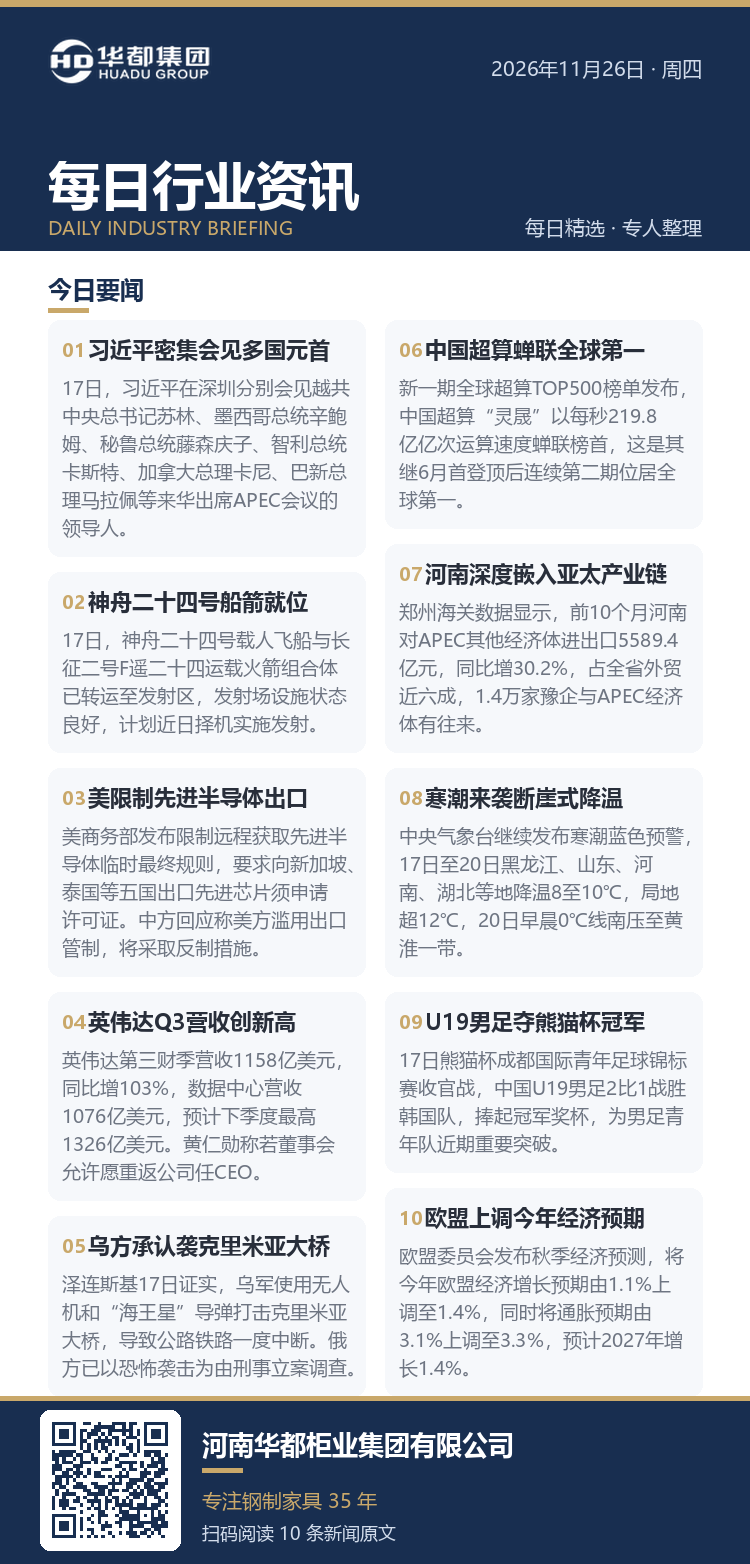
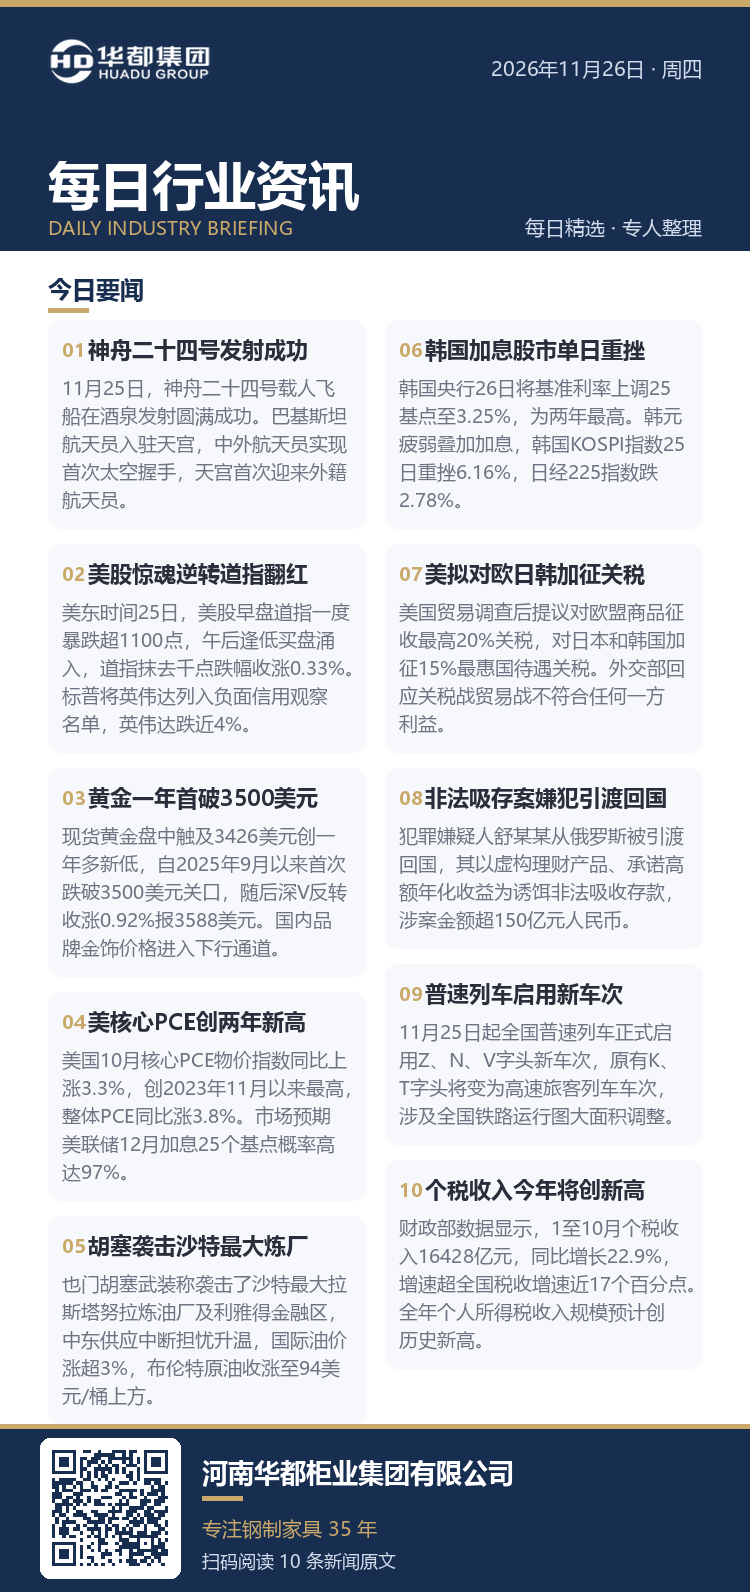
poster 2026-11-26

diff --git a/docs/2026-11-26.html b/docs/2026-11-26.html
@@ -40,7 +40,7 @@ body { font-family:-apple-system,'PingFang SC','Microsoft YaHei',sans-serif;
 <div class="tip">👇 今日海报（长按图片即可保存 / 转发同事群）</div>
 <img src="latest.png" alt="今日行业资讯海报">
 </div>
-<div class="list wrap"><div class="sect">今日要闻</div><div class="card"><span class="no">01</span><h2>习近平密集会见多国元首</h2><p>17日，习近平在深圳分别会见越共中央总书记苏林、墨西哥总统辛鲍姆、秘鲁总统藤森庆子、智利总统卡斯特、加拿大总理卡尼、巴新总理马拉佩等来华出席APEC会议的领导人。</p><div class="meta"><span class="src">北京日报</span><a href="https://pc.bjd.com.cn/detail?id=s6afce713e4b039a8e2f3c122" target="_blank" rel="noopener">阅读原文 →</a></div></div><div class="card"><span class="no">02</span><h2>神舟二十四号船箭就位</h2><p>17日，神舟二十四号载人飞船与长征二号F遥二十四运载火箭组合体已转运至发射区，发射场设施状态良好，计划近日择机实施发射。</p><div class="meta"><span class="src">北京日报</span><a href="https://pc.bjd.com.cn/detail?id=s6afce713e4b039a8e2f3c122" target="_blank" rel="noopener">阅读原文 →</a></div></div><div class="card"><span class="no">03</span><h2>美限制先进半导体出口</h2><p>美商务部发布限制远程获取先进半导体临时最终规则，要求向新加坡、泰国等五国出口先进芯片须申请许可证。中方回应称美方滥用出口管制，将采取反制措施。</p><div class="meta"><span class="src">央广网</span><a href="https://www.cnr.cn/jingji/ycbd/20261118/t20261118_527876265.shtml" target="_blank" rel="noopener">阅读原文 →</a></div></div><div class="card"><span class="no">04</span><h2>英伟达Q3营收创新高</h2><p>英伟达第三财季营收1158亿美元，同比增103%，数据中心营收1076亿美元，预计下季度最高1326亿美元。黄仁勋称若董事会允许愿重返公司任CEO。</p><div class="meta"><span class="src">东方财富网</span><a href="https://www.cnr.cn/jingji/ycbd/20261118/t20261118_527876265.shtml" target="_blank" rel="noopener">阅读原文 →</a></div></div><div class="card"><span class="no">05</span><h2>乌方承认袭克里米亚大桥</h2><p>泽连斯基17日证实，乌军使用无人机和“海王星”导弹打击克里米亚大桥，导致公路铁路一度中断。俄方已以恐怖袭击为由刑事立案调查。</p><div class="meta"><span class="src">每日经济新闻</span><a href="https://www.mrjjxw.com/articles/2026-11-18/4650861.html" target="_blank" rel="noopener">阅读原文 →</a></div></div><div class="card"><span class="no">06</span><h2>中国超算蝉联全球第一</h2><p>新一期全球超算TOP500榜单发布，中国超算“灵晟”以每秒219.8亿亿次运算速度蝉联榜首，这是其继6月首登顶后连续第二期位居全球第一。</p><div class="meta"><span class="src">北京日报</span><a href="https://pc.bjd.com.cn/detail?id=s6afce713e4b039a8e2f3c122" target="_blank" rel="noopener">阅读原文 →</a></div></div><div class="card"><span class="no">07</span><h2>河南深度嵌入亚太产业链</h2><p>郑州海关数据显示，前10个月河南对APEC其他经济体进出口5589.4亿元，同比增30.2%，占全省外贸近六成，1.4万家豫企与APEC经济体有往来。</p><div class="meta"><span class="src">河南日报</span><a href="https://dzb.henandaily.cn/html5/2026-11/18/content_10_1820147.htm" target="_blank" rel="noopener">阅读原文 →</a></div></div><div class="card"><span class="no">08</span><h2>寒潮来袭断崖式降温</h2><p>中央气象台继续发布寒潮蓝色预警，17日至20日黑龙江、山东、河南、湖北等地降温8至10℃，局地超12℃，20日早晨0℃线南压至黄淮一带。</p><div class="meta"><span class="src">贵州改革</span><a href="http://mp.weixin.qq.com/s?__biz=MzIzNDYxNTcxOA==&mid=2247827865&idx=1&sn=04991b62a19219b16ac79dc9bd45848c&chksm=e96c1fd5104734226dbe063b6353731511a03c3155cf39c3df1beae92b1fc0e781234582cd9f#rd" target="_blank" rel="noopener">阅读原文 →</a></div></div><div class="card"><span class="no">09</span><h2>U19男足夺熊猫杯冠军</h2><p>17日熊猫杯成都国际青年足球锦标赛收官战，中国U19男足2比1战胜韩国队，捧起冠军奖杯，为男足青年队近期重要突破。</p><div class="meta"><span class="src">贵州改革</span><a href="http://mp.weixin.qq.com/s?__biz=MzIzNDYxNTcxOA==&mid=2247827865&idx=1&sn=04991b62a19219b16ac79dc9bd45848c&chksm=e96c1fd5104734226dbe063b6353731511a03c3155cf39c3df1beae92b1fc0e781234582cd9f#rd" target="_blank" rel="noopener">阅读原文 →</a></div></div><div class="card"><span class="no">10</span><h2>欧盟上调今年经济预期</h2><p>欧盟委员会发布秋季经济预测，将今年欧盟经济增长预期由1.1%上调至1.4%，同时将通胀预期由3.1%上调至3.3%，预计2027年增长1.4%。</p><div class="meta"><span class="src">新华社</span><a href="https://www.mrjjxw.com/articles/2026-11-18/4650861.html" target="_blank" rel="noopener">阅读原文 →</a></div></div></div>
+<div class="list wrap"><div class="sect">今日要闻</div><div class="card"><span class="no">01</span><h2>神舟二十四号发射成功</h2><p>11月25日，神舟二十四号载人飞船在酒泉发射圆满成功。巴基斯坦航天员入驻天宫，中外航天员实现首次太空握手，天宫首次迎来外籍航天员。</p><div class="meta"><span class="src">新华网</span><a href="https://news.qq.com/rain/a/20261126A04BQY00" target="_blank" rel="noopener">阅读原文 →</a></div></div><div class="card"><span class="no">02</span><h2>美股惊魂逆转道指翻红</h2><p>美东时间25日，美股早盘道指一度暴跌超1100点，午后逢低买盘涌入，道指抹去千点跌幅收涨0.33%。标普将英伟达列入负面信用观察名单，英伟达跌近4%。</p><div class="meta"><span class="src">中华网</span><a href="https://news.china.com/socialgd/10000169/20261126/49908610.html" target="_blank" rel="noopener">阅读原文 →</a></div></div><div class="card"><span class="no">03</span><h2>黄金一年首破3500美元</h2><p>现货黄金盘中触及3426美元创一年多新低，自2025年9月以来首次跌破3500美元关口，随后深V反转收涨0.92%报3588美元。国内品牌金饰价格进入下行通道。</p><div class="meta"><span class="src">光明网</span><a href="https://m.gmw.cn/2026-11/26/content_1304589616.htm" target="_blank" rel="noopener">阅读原文 →</a></div></div><div class="card"><span class="no">04</span><h2>美核心PCE创两年新高</h2><p>美国10月核心PCE物价指数同比上涨3.3%，创2023年11月以来最高，整体PCE同比涨3.8%。市场预期美联储12月加息25个基点概率高达97%。</p><div class="meta"><span class="src">央广网</span><a href="https://www.cnr.cn/jingji/ycbd/20261126/t20261126_527883359.shtml" target="_blank" rel="noopener">阅读原文 →</a></div></div><div class="card"><span class="no">05</span><h2>胡塞袭击沙特最大炼厂</h2><p>也门胡塞武装称袭击了沙特最大拉斯塔努拉炼油厂及利雅得金融区，中东供应中断担忧升温，国际油价涨超3%，布伦特原油收涨至94美元/桶上方。</p><div class="meta"><span class="src">中金在线</span><a href="http://futures.cnfol.com/qishidongtai/20261126/32432630.shtml" target="_blank" rel="noopener">阅读原文 →</a></div></div><div class="card"><span class="no">06</span><h2>韩国加息股市单日重挫</h2><p>韩国央行26日将基准利率上调25基点至3.25%，为两年最高。韩元疲弱叠加加息，韩国KOSPI指数25日重挫6.16%，日经225指数跌2.78%。</p><div class="meta"><span class="src">新华财经</span><a href="https://m.cnfin.com/yw-lb//zixun/20261126/4500805_1.html" target="_blank" rel="noopener">阅读原文 →</a></div></div><div class="card"><span class="no">07</span><h2>美拟对欧日韩加征关税</h2><p>美国贸易调查后提议对欧盟商品征收最高20%关税，对日本和韩国加征15%最惠国待遇关税。外交部回应关税战贸易战不符合任何一方利益。</p><div class="meta"><span class="src">财联社</span><a href="https://www.cls.cn/detail/2544794" target="_blank" rel="noopener">阅读原文 →</a></div></div><div class="card"><span class="no">08</span><h2>非法吸存案嫌犯引渡回国</h2><p>犯罪嫌疑人舒某某从俄罗斯被引渡回国，其以虚构理财产品、承诺高额年化收益为诱饵非法吸收存款，涉案金额超150亿元人民币。</p><div class="meta"><span class="src">腾讯新闻</span><a href="https://news.qq.com/rain/a/20261126A04EUY00" target="_blank" rel="noopener">阅读原文 →</a></div></div><div class="card"><span class="no">09</span><h2>普速列车启用新车次</h2><p>11月25日起全国普速列车正式启用Z、N、V字头新车次，原有K、T字头将变为高速旅客列车车次，涉及全国铁路运行图大面积调整。</p><div class="meta"><span class="src">中国新闻网</span><a href="https://www.zj.chinanews.com/jzkzj/2026-11-26/detail-ihfnkmis1794094.shtml" target="_blank" rel="noopener">阅读原文 →</a></div></div><div class="card"><span class="no">10</span><h2>个税收入今年将创新高</h2><p>财政部数据显示，1至10月个税收入16428亿元，同比增长22.9%，增速超全国税收增速近17个百分点。全年个人所得税收入规模预计创历史新高。</p><div class="meta"><span class="src">央广网</span><a href="https://www.cnr.cn/jingji/ycbd/20261126/t20261126_527883359.shtml" target="_blank" rel="noopener">阅读原文 →</a></div></div></div>
 <div class="tip">点击「阅读原文」查看各家媒体报道全文</div>
 <div class="footer"><div class="co">河南华都柜业集团有限公司</div>
 <div class="slogan">专注钢制家具 35 年</div></div>

diff --git a/docs/index.html b/docs/index.html
@@ -40,7 +40,7 @@ body { font-family:-apple-system,'PingFang SC','Microsoft YaHei',sans-serif;
 <div class="tip">👇 今日海报（长按图片即可保存 / 转发同事群）</div>
 <img src="latest.png" alt="今日行业资讯海报">
 </div>
-<div class="list wrap"><div class="sect">今日要闻</div><div class="card"><span class="no">01</span><h2>习近平密集会见多国元首</h2><p>17日，习近平在深圳分别会见越共中央总书记苏林、墨西哥总统辛鲍姆、秘鲁总统藤森庆子、智利总统卡斯特、加拿大总理卡尼、巴新总理马拉佩等来华出席APEC会议的领导人。</p><div class="meta"><span class="src">北京日报</span><a href="https://pc.bjd.com.cn/detail?id=s6afce713e4b039a8e2f3c122" target="_blank" rel="noopener">阅读原文 →</a></div></div><div class="card"><span class="no">02</span><h2>神舟二十四号船箭就位</h2><p>17日，神舟二十四号载人飞船与长征二号F遥二十四运载火箭组合体已转运至发射区，发射场设施状态良好，计划近日择机实施发射。</p><div class="meta"><span class="src">北京日报</span><a href="https://pc.bjd.com.cn/detail?id=s6afce713e4b039a8e2f3c122" target="_blank" rel="noopener">阅读原文 →</a></div></div><div class="card"><span class="no">03</span><h2>美限制先进半导体出口</h2><p>美商务部发布限制远程获取先进半导体临时最终规则，要求向新加坡、泰国等五国出口先进芯片须申请许可证。中方回应称美方滥用出口管制，将采取反制措施。</p><div class="meta"><span class="src">央广网</span><a href="https://www.cnr.cn/jingji/ycbd/20261118/t20261118_527876265.shtml" target="_blank" rel="noopener">阅读原文 →</a></div></div><div class="card"><span class="no">04</span><h2>英伟达Q3营收创新高</h2><p>英伟达第三财季营收1158亿美元，同比增103%，数据中心营收1076亿美元，预计下季度最高1326亿美元。黄仁勋称若董事会允许愿重返公司任CEO。</p><div class="meta"><span class="src">东方财富网</span><a href="https://www.cnr.cn/jingji/ycbd/20261118/t20261118_527876265.shtml" target="_blank" rel="noopener">阅读原文 →</a></div></div><div class="card"><span class="no">05</span><h2>乌方承认袭克里米亚大桥</h2><p>泽连斯基17日证实，乌军使用无人机和“海王星”导弹打击克里米亚大桥，导致公路铁路一度中断。俄方已以恐怖袭击为由刑事立案调查。</p><div class="meta"><span class="src">每日经济新闻</span><a href="https://www.mrjjxw.com/articles/2026-11-18/4650861.html" target="_blank" rel="noopener">阅读原文 →</a></div></div><div class="card"><span class="no">06</span><h2>中国超算蝉联全球第一</h2><p>新一期全球超算TOP500榜单发布，中国超算“灵晟”以每秒219.8亿亿次运算速度蝉联榜首，这是其继6月首登顶后连续第二期位居全球第一。</p><div class="meta"><span class="src">北京日报</span><a href="https://pc.bjd.com.cn/detail?id=s6afce713e4b039a8e2f3c122" target="_blank" rel="noopener">阅读原文 →</a></div></div><div class="card"><span class="no">07</span><h2>河南深度嵌入亚太产业链</h2><p>郑州海关数据显示，前10个月河南对APEC其他经济体进出口5589.4亿元，同比增30.2%，占全省外贸近六成，1.4万家豫企与APEC经济体有往来。</p><div class="meta"><span class="src">河南日报</span><a href="https://dzb.henandaily.cn/html5/2026-11/18/content_10_1820147.htm" target="_blank" rel="noopener">阅读原文 →</a></div></div><div class="card"><span class="no">08</span><h2>寒潮来袭断崖式降温</h2><p>中央气象台继续发布寒潮蓝色预警，17日至20日黑龙江、山东、河南、湖北等地降温8至10℃，局地超12℃，20日早晨0℃线南压至黄淮一带。</p><div class="meta"><span class="src">贵州改革</span><a href="http://mp.weixin.qq.com/s?__biz=MzIzNDYxNTcxOA==&mid=2247827865&idx=1&sn=04991b62a19219b16ac79dc9bd45848c&chksm=e96c1fd5104734226dbe063b6353731511a03c3155cf39c3df1beae92b1fc0e781234582cd9f#rd" target="_blank" rel="noopener">阅读原文 →</a></div></div><div class="card"><span class="no">09</span><h2>U19男足夺熊猫杯冠军</h2><p>17日熊猫杯成都国际青年足球锦标赛收官战，中国U19男足2比1战胜韩国队，捧起冠军奖杯，为男足青年队近期重要突破。</p><div class="meta"><span class="src">贵州改革</span><a href="http://mp.weixin.qq.com/s?__biz=MzIzNDYxNTcxOA==&mid=2247827865&idx=1&sn=04991b62a19219b16ac79dc9bd45848c&chksm=e96c1fd5104734226dbe063b6353731511a03c3155cf39c3df1beae92b1fc0e781234582cd9f#rd" target="_blank" rel="noopener">阅读原文 →</a></div></div><div class="card"><span class="no">10</span><h2>欧盟上调今年经济预期</h2><p>欧盟委员会发布秋季经济预测，将今年欧盟经济增长预期由1.1%上调至1.4%，同时将通胀预期由3.1%上调至3.3%，预计2027年增长1.4%。</p><div class="meta"><span class="src">新华社</span><a href="https://www.mrjjxw.com/articles/2026-11-18/4650861.html" target="_blank" rel="noopener">阅读原文 →</a></div></div></div>
+<div class="list wrap"><div class="sect">今日要闻</div><div class="card"><span class="no">01</span><h2>神舟二十四号发射成功</h2><p>11月25日，神舟二十四号载人飞船在酒泉发射圆满成功。巴基斯坦航天员入驻天宫，中外航天员实现首次太空握手，天宫首次迎来外籍航天员。</p><div class="meta"><span class="src">新华网</span><a href="https://news.qq.com/rain/a/20261126A04BQY00" target="_blank" rel="noopener">阅读原文 →</a></div></div><div class="card"><span class="no">02</span><h2>美股惊魂逆转道指翻红</h2><p>美东时间25日，美股早盘道指一度暴跌超1100点，午后逢低买盘涌入，道指抹去千点跌幅收涨0.33%。标普将英伟达列入负面信用观察名单，英伟达跌近4%。</p><div class="meta"><span class="src">中华网</span><a href="https://news.china.com/socialgd/10000169/20261126/49908610.html" target="_blank" rel="noopener">阅读原文 →</a></div></div><div class="card"><span class="no">03</span><h2>黄金一年首破3500美元</h2><p>现货黄金盘中触及3426美元创一年多新低，自2025年9月以来首次跌破3500美元关口，随后深V反转收涨0.92%报3588美元。国内品牌金饰价格进入下行通道。</p><div class="meta"><span class="src">光明网</span><a href="https://m.gmw.cn/2026-11/26/content_1304589616.htm" target="_blank" rel="noopener">阅读原文 →</a></div></div><div class="card"><span class="no">04</span><h2>美核心PCE创两年新高</h2><p>美国10月核心PCE物价指数同比上涨3.3%，创2023年11月以来最高，整体PCE同比涨3.8%。市场预期美联储12月加息25个基点概率高达97%。</p><div class="meta"><span class="src">央广网</span><a href="https://www.cnr.cn/jingji/ycbd/20261126/t20261126_527883359.shtml" target="_blank" rel="noopener">阅读原文 →</a></div></div><div class="card"><span class="no">05</span><h2>胡塞袭击沙特最大炼厂</h2><p>也门胡塞武装称袭击了沙特最大拉斯塔努拉炼油厂及利雅得金融区，中东供应中断担忧升温，国际油价涨超3%，布伦特原油收涨至94美元/桶上方。</p><div class="meta"><span class="src">中金在线</span><a href="http://futures.cnfol.com/qishidongtai/20261126/32432630.shtml" target="_blank" rel="noopener">阅读原文 →</a></div></div><div class="card"><span class="no">06</span><h2>韩国加息股市单日重挫</h2><p>韩国央行26日将基准利率上调25基点至3.25%，为两年最高。韩元疲弱叠加加息，韩国KOSPI指数25日重挫6.16%，日经225指数跌2.78%。</p><div class="meta"><span class="src">新华财经</span><a href="https://m.cnfin.com/yw-lb//zixun/20261126/4500805_1.html" target="_blank" rel="noopener">阅读原文 →</a></div></div><div class="card"><span class="no">07</span><h2>美拟对欧日韩加征关税</h2><p>美国贸易调查后提议对欧盟商品征收最高20%关税，对日本和韩国加征15%最惠国待遇关税。外交部回应关税战贸易战不符合任何一方利益。</p><div class="meta"><span class="src">财联社</span><a href="https://www.cls.cn/detail/2544794" target="_blank" rel="noopener">阅读原文 →</a></div></div><div class="card"><span class="no">08</span><h2>非法吸存案嫌犯引渡回国</h2><p>犯罪嫌疑人舒某某从俄罗斯被引渡回国，其以虚构理财产品、承诺高额年化收益为诱饵非法吸收存款，涉案金额超150亿元人民币。</p><div class="meta"><span class="src">腾讯新闻</span><a href="https://news.qq.com/rain/a/20261126A04EUY00" target="_blank" rel="noopener">阅读原文 →</a></div></div><div class="card"><span class="no">09</span><h2>普速列车启用新车次</h2><p>11月25日起全国普速列车正式启用Z、N、V字头新车次，原有K、T字头将变为高速旅客列车车次，涉及全国铁路运行图大面积调整。</p><div class="meta"><span class="src">中国新闻网</span><a href="https://www.zj.chinanews.com/jzkzj/2026-11-26/detail-ihfnkmis1794094.shtml" target="_blank" rel="noopener">阅读原文 →</a></div></div><div class="card"><span class="no">10</span><h2>个税收入今年将创新高</h2><p>财政部数据显示，1至10月个税收入16428亿元，同比增长22.9%，增速超全国税收增速近17个百分点。全年个人所得税收入规模预计创历史新高。</p><div class="meta"><span class="src">央广网</span><a href="https://www.cnr.cn/jingji/ycbd/20261126/t20261126_527883359.shtml" target="_blank" rel="noopener">阅读原文 →</a></div></div></div>
 <div class="tip">点击「阅读原文」查看各家媒体报道全文</div>
 <div class="footer"><div class="co">河南华都柜业集团有限公司</div>
 <div class="slogan">专注钢制家具 35 年</div></div>
